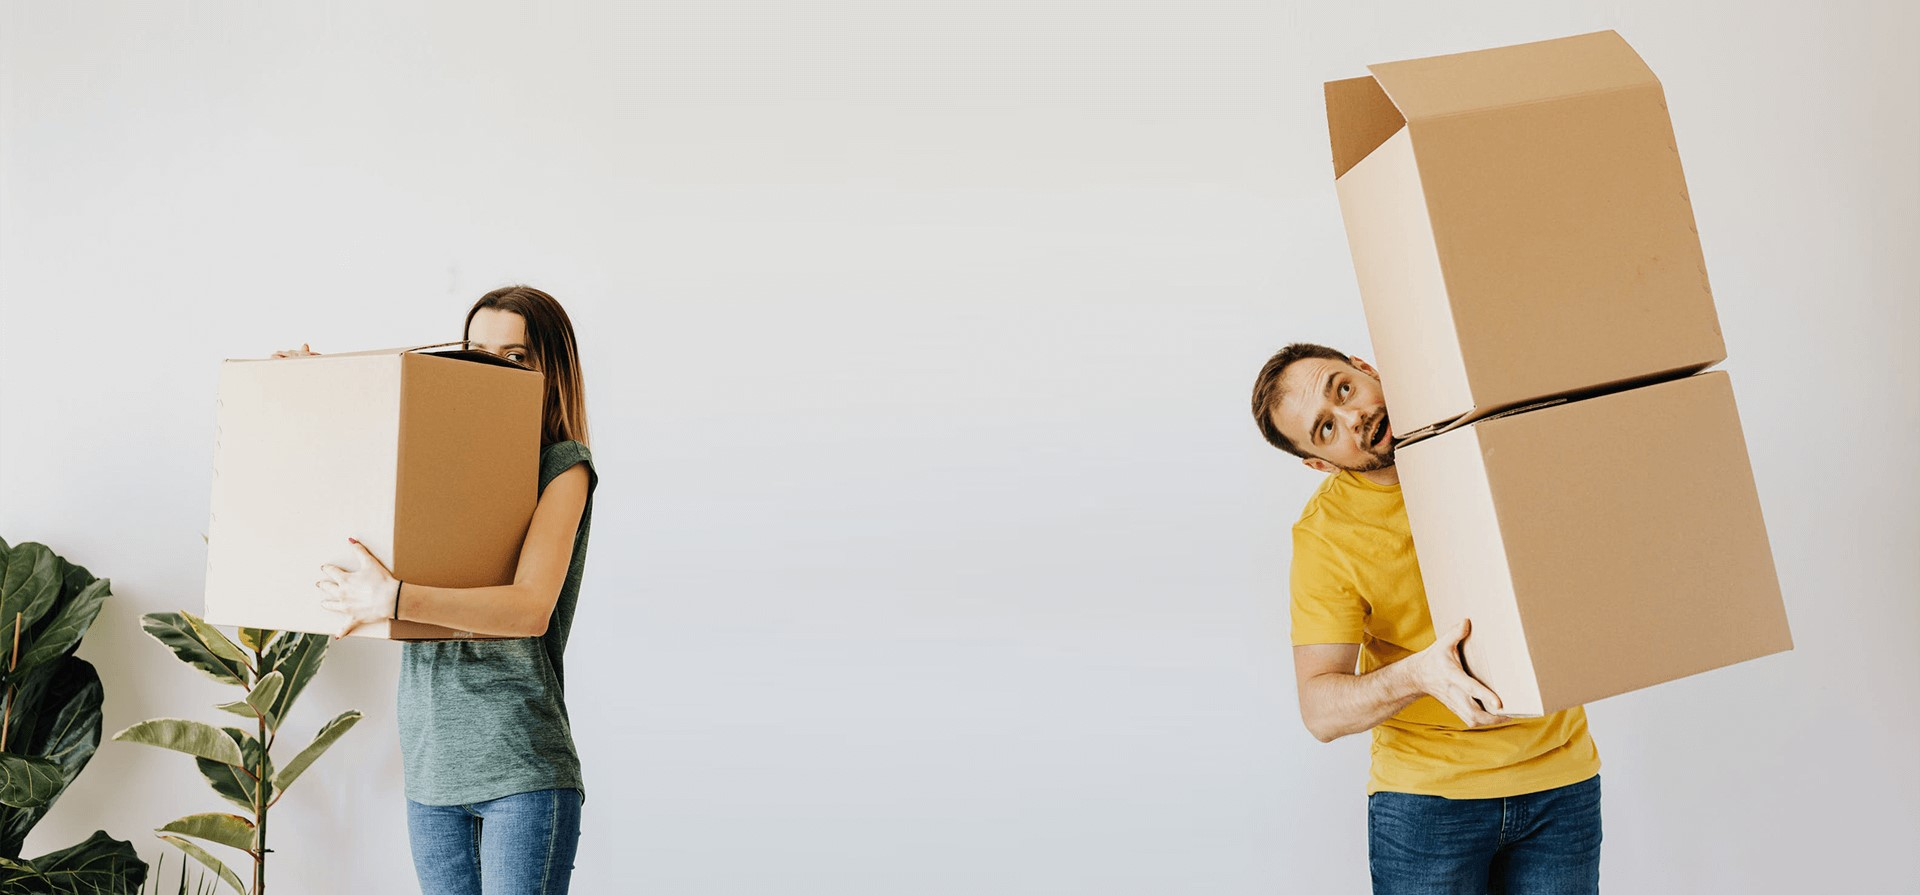
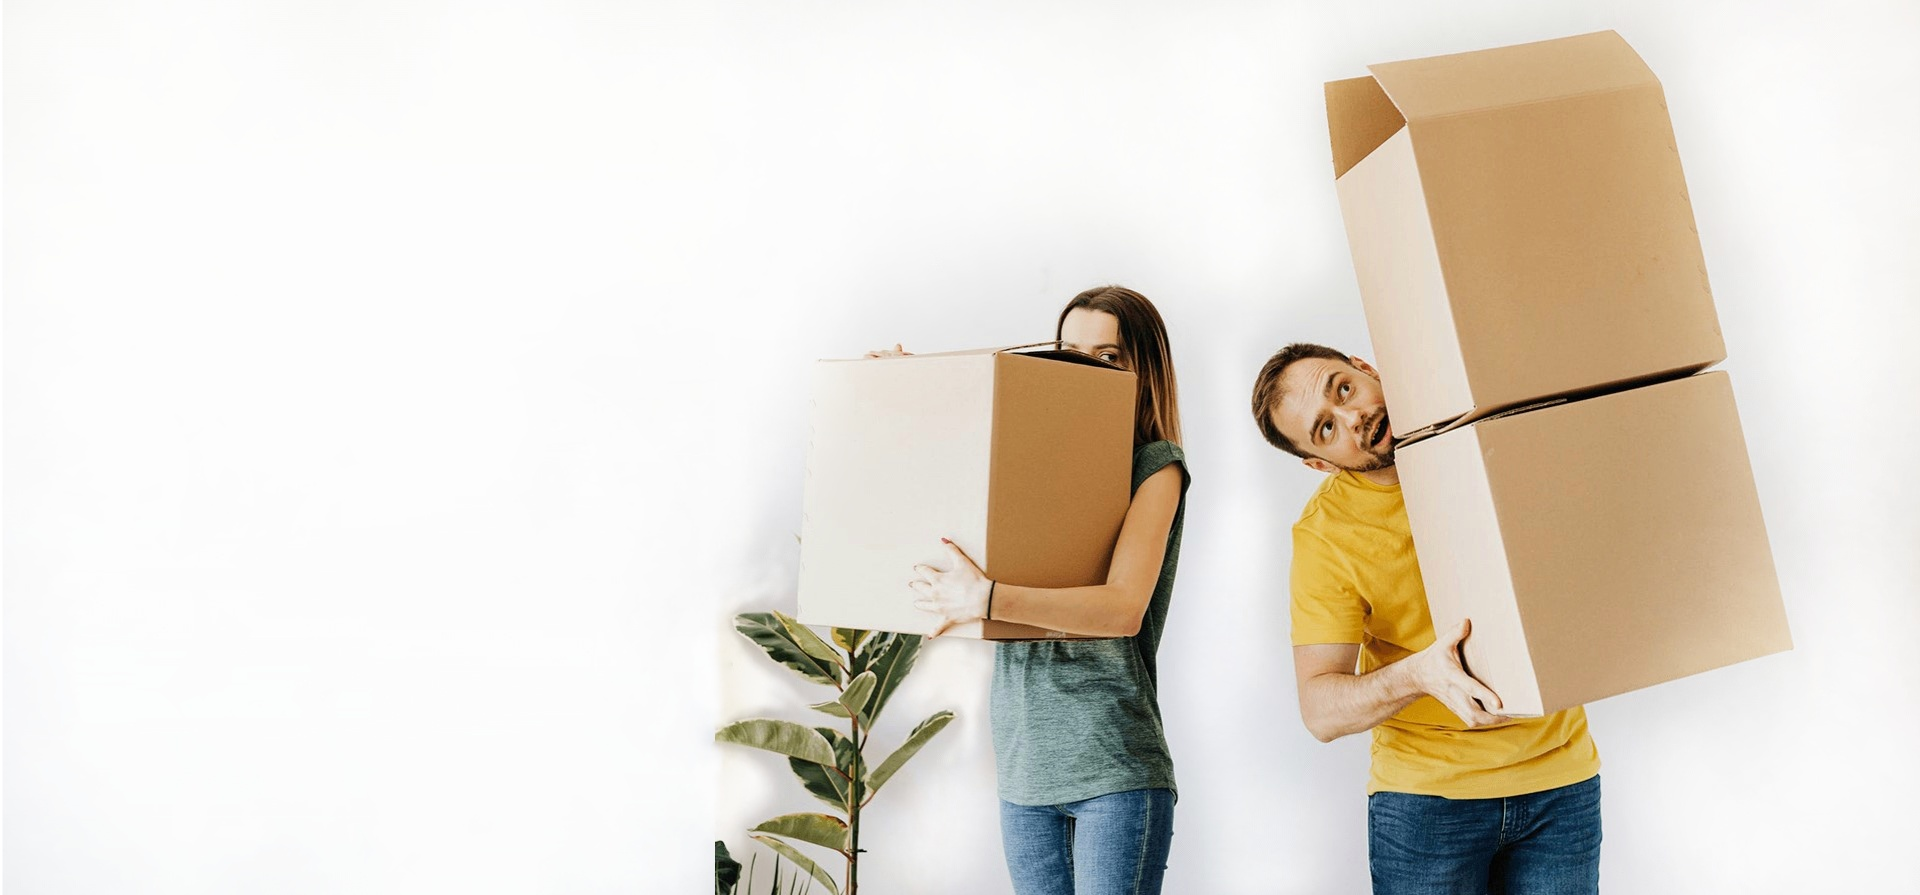
navbar + background image fixes

diff --git a/TenYad/ten_yad/homepage/templates/base/base.html b/TenYad/ten_yad/homepage/templates/base/base.html
@@ -46,63 +46,59 @@
                             {% endif %}
                         </li>
                     </ul>
-                    <div class="nav-item dropdown">
-                      <a class="nav-link dropdown-toggle" style="color:black;" href="#" id="navbarDropdown" role="button" data-bs-toggle="dropdown" aria-expanded="false">
-                        <img src="https://img.icons8.com/fluent/30/000000/settings.png"/>
-                      </a>
-                      <ul class="dropdown-menu" aria-labelledby="navbarDropdown">
-                        <li><a class="dropdown-item" href="{% url 'post_history' %}">Post History</a></li>
-                        <li><hr class="dropdown-divider"></li>
-                        <li><a class="dropdown-item" href="{% url 'profile_edit' %}">Edit Profile</a></li>
-                        <li><a class="dropdown-item" href="{% url 'change_password' %}">Change Password</a></li>
-                        <li><a class="dropdown-item" href="{% url 'contact_admin' %}">Contact Admin</a></li>
-                      </ul>
-                    </div>
-                            <div>
-                                <button type="button" data-bs-toggle="modal" data-bs-target="#exampleModal" style=" border: none; background: none;">
-                                  <svg width="30" height="30" viewBox="0 0 24 24">
-                                      <path
-                                        d="M18,6 L6,12 L18,18"
-                                        stroke="#212b36"
-                                        stroke-width="2"
-                                        stroke-linecap="round"
-                                        stroke-linejoin="round"
-                                        fill="none"
-                                      />
-                                      <circle cx="18" cy="6" r="3" fill="#212b36"/>
-                                      <circle cx="6" cy="12" r="3" fill="#212b36"/>
-                                      <circle cx="18" cy="18" r="3" fill="#212b36"/>
-                                    </svg>
-
-                                </button>
-                                <div class="modal fade" id="exampleModal" tabindex="-1" aria-labelledby="exampleModalLabel" aria-hidden="true">
-                                  <div class="modal-dialog modal-dialog-centered">
-                                    <div class="modal-content">
-                                      <div class="modal-header">
-                                        <h5 class="modal-title" id="exampleModalLabel"> URL sharing :</h5>
-                                        <button type="button" class="btn-close" data-bs-dismiss="modal" aria-label="Close" ></button>
-                                      </div>
-                                      <div class="modal-body">
-                                            <p> {{ request.build_absolute_uri }} </p>
-                                      </div>
-                                      <div class="modal-footer">
-                                        <button type="button" class="btn btn-secondary" data-bs-dismiss="modal">Close</button>
-                                      </div>
-                                    </div>
-                                  </div>
-                                </div>
-                    </div>
-                </div>
-
-
-
-                    {% if user.profile.unread_notifications %}
+                    <div class="gap-2 d-flex justify-content-center">
+                        <div class="nav-item dropdown">
+                          <a class="nav-link dropdown-toggle" style="color:black;" href="#" id="navbarDropdown" role="button" data-bs-toggle="dropdown" aria-expanded="false">
+                            <img src="https://img.icons8.com/fluent/30/000000/settings.png"/>
+                          </a>
+                          <ul class="dropdown-menu" aria-labelledby="navbarDropdown">
+                            <li><a class="dropdown-item" href="{% url 'post_history' %}">Post History</a></li>
+                            <li><hr class="dropdown-divider"></li>
+                            <li><a class="dropdown-item" href="{% url 'profile_edit' %}">Edit Profile</a></li>
+                            <li><a class="dropdown-item" href="{% url 'change_password' %}">Change Password</a></li>
+                            <li><a class="dropdown-item" href="{% url 'contact_admin' %}">Contact Admin</a></li>
+                          </ul>
+                        </div>
+                        <button type="button" data-bs-toggle="modal" data-bs-target="#shareModal" style=" border: none; background: none;">
+                          <svg width="30" height="30" viewBox="0 0 24 24">
+                              <path
+                                d="M18,6 L6,12 L18,18"
+                                stroke="#212b36"
+                                stroke-width="2"
+                                stroke-linecap="round"
+                                stroke-linejoin="round"
+                                fill="none"
+                              />
+                              <circle cx="18" cy="6" r="3" fill="#212b36"/>
+                              <circle cx="6" cy="12" r="3" fill="#212b36"/>
+                              <circle cx="18" cy="18" r="3" fill="#212b36"/>
+                            </svg>
+                        </button>
+                        <div class="modal fade" id="shareModal" tabindex="-1" aria-labelledby="exampleModalLabel" aria-hidden="true">
+                          <div class="modal-dialog modal-dialog-centered">
+                            <div class="modal-content">
+                              <div class="modal-header">
+                                <h5 class="modal-title" id="exampleModalLabel"> URL sharing :</h5>
+                                <button type="button" class="btn-close" data-bs-dismiss="modal" aria-label="Close" ></button>
+                              </div>
+                              <div class="modal-body">
+                                    <p> {{ request.build_absolute_uri }} </p>
+                              </div>
+                              <div class="modal-footer">
+                                <button type="button" class="btn btn-secondary" data-bs-dismiss="modal">Close</button>
+                              </div>
+                            </div>
+                          </div>
+                        </div>
+                        {% if user.profile.unread_notifications %}
                         <a class="nav-link" style="color:black;" href="/Messages">Messages <txt style="font-size:14px; color:#ff0000; font-weight:bold; font-style:italic;">({{user.profile.unread_notifications}})</txt></a>
-                    {% else %}
-                        <a class="nav-link" style="color:black;" href="/Messages">Messages <txt style="font-size:14px; color:##463b3b; font-weight:bold; font-style:italic;">({{user.profile.unread_notifications}})</txt></a>
-                    {% endif %}
-                    <a class="nav-link" style="color:black;" href="/logout">Logout</a>
+                        {% else %}
+                            <a class="nav-link" style="color:black;" href="/Messages">Messages <txt style="font-size:14px; color:##463b3b; font-weight:bold; font-style:italic;">({{user.profile.unread_notifications}})</txt></a>
+                        {% endif %}
+                        <a class="nav-link" style="color:black;" href="/logout">Logout</a>
+                    </div>
                 </div>
+
               </div>
             </nav>
         {% endif %}

diff --git a/TenYad/ten_yad/homepage/templates/post/post.html b/TenYad/ten_yad/homepage/templates/post/post.html
@@ -2,11 +2,6 @@
 
 {% block js %}
 <link rel="stylesheet" href="/static/style_back_all.css">
-    <script type="text/javascript">
-        $(window).on('load', function(e) {
-            $('#approveRepliers').modal('show');
-        });
-    </script>
 {% endblock %}
 {% block title %}
     Ten Yad - post id: {{post.id}}

diff --git a/TenYad/ten_yad/register/templates/background/style_login.css b/TenYad/ten_yad/register/templates/background/style_login.css
@@ -36,7 +36,7 @@ position: absolute;
 }
 
 body{
-  background-image: url(/static/background.png);
+  background-image: url(/static/background_login.png);
   background-repeat: no-repeat;
   background-attachment: fixed;
   background-size: cover;

diff --git a/TenYad/ten_yad/homepage/tests/test_models.py b/TenYad/ten_yad/homepage/tests/test_models.py
@@ -51,7 +51,7 @@ class ModelsTestCase(TestCase):
         self.assertEqual(post.post_status, (Post.PostStatus.ACTIVE).lower())
         self.assertEqual(str(self.post), f'title: need help with homework, author: testerFinal, category: sport')
 
-    def test_logged_in_uses_correct_template(self):
+    def test_logged_in_user_model(self):
         c = Client()
         login = self.client.login(username='testerFinal', password='testpassword')
         response = c.post('/login/', {'username': 'testerFinal', 'password': 'testpassword'})
